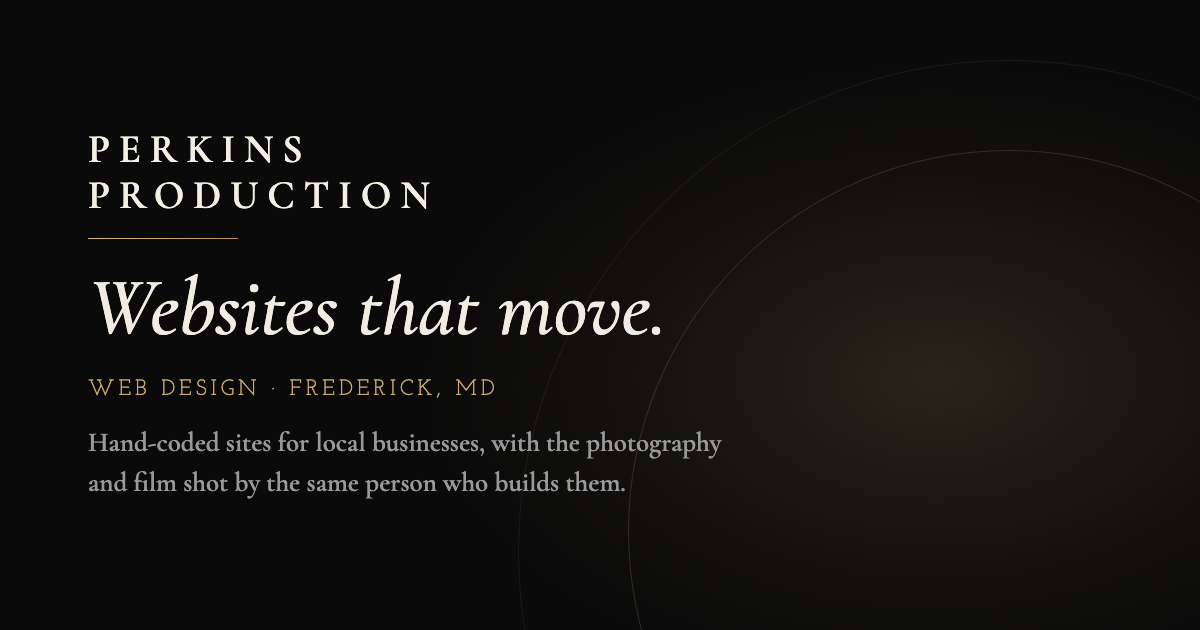
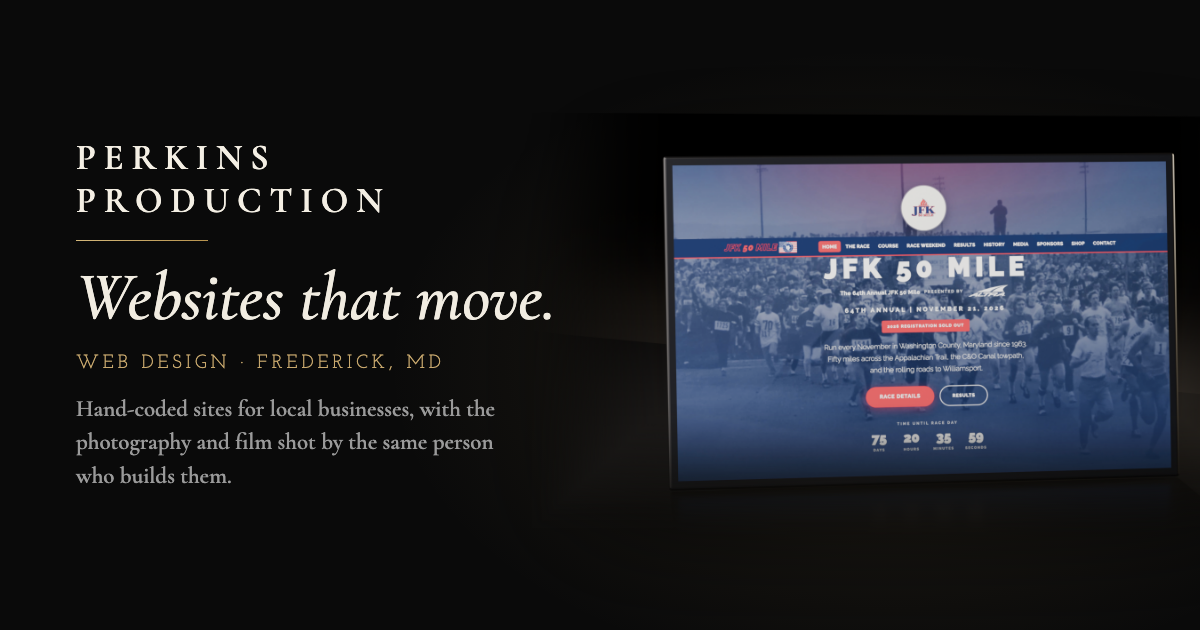
Blender mockups: new share card, and the Cinematic tier gets a rendered laptop
Renders each site onto a 3D laptop lit in brand gold against near-black,
produced by scripts/render_site_mockup.py in the perkins-production-site
skill. The share card now shows real client work instead of type alone.
Ground-plane edges are feathered so the PNGs composite onto any background.

Changed region(s): [[0.0617, 0.2413, 0.9867, 0.7841], [0.0617, 0.2111, 0.37, 0.3317], [0.0925, 0.3619, 0.1542, 0.3921]]

diff --git a/public/index.html b/public/index.html
@@ -973,6 +973,15 @@
         }
 
         /* Web design pricing row (inside main pricing grid) */
+        /* The Cinematic tier carries a rendered mockup so the premium option looks premium */
+        .cinematic-card { position: relative; overflow: hidden; }
+        .tier-shot {
+            margin: -2.5rem -2rem 1.2rem; padding: 1.5rem 0.8rem 0;
+            background: linear-gradient(180deg, rgba(201,169,110,0.07), rgba(10,10,10,0) 78%);
+            pointer-events: none;
+        }
+        .tier-shot img { display: block; width: 100%; height: auto; }
+
         .pricing-tabs {
             display: flex; justify-content: center; gap: 2.5rem; flex-wrap: wrap;
             margin: -1rem auto 3rem;
@@ -1969,7 +1978,8 @@
             </ul>
             <a href="#contact" class="pricing-cta">Get Started</a>
         </div>
-        <div class="pricing-card scale-in" data-group="web">
+        <div class="pricing-card cinematic-card scale-in" data-group="web">
+            <div class="tier-shot" aria-hidden="true"><img src="/mockups/cinematic.png" alt="" loading="lazy" decoding="async"></div>
             <h3>Cinematic</h3>
             <div class="price">Custom</div>
             <div class="price-note">quoted per project</div>
